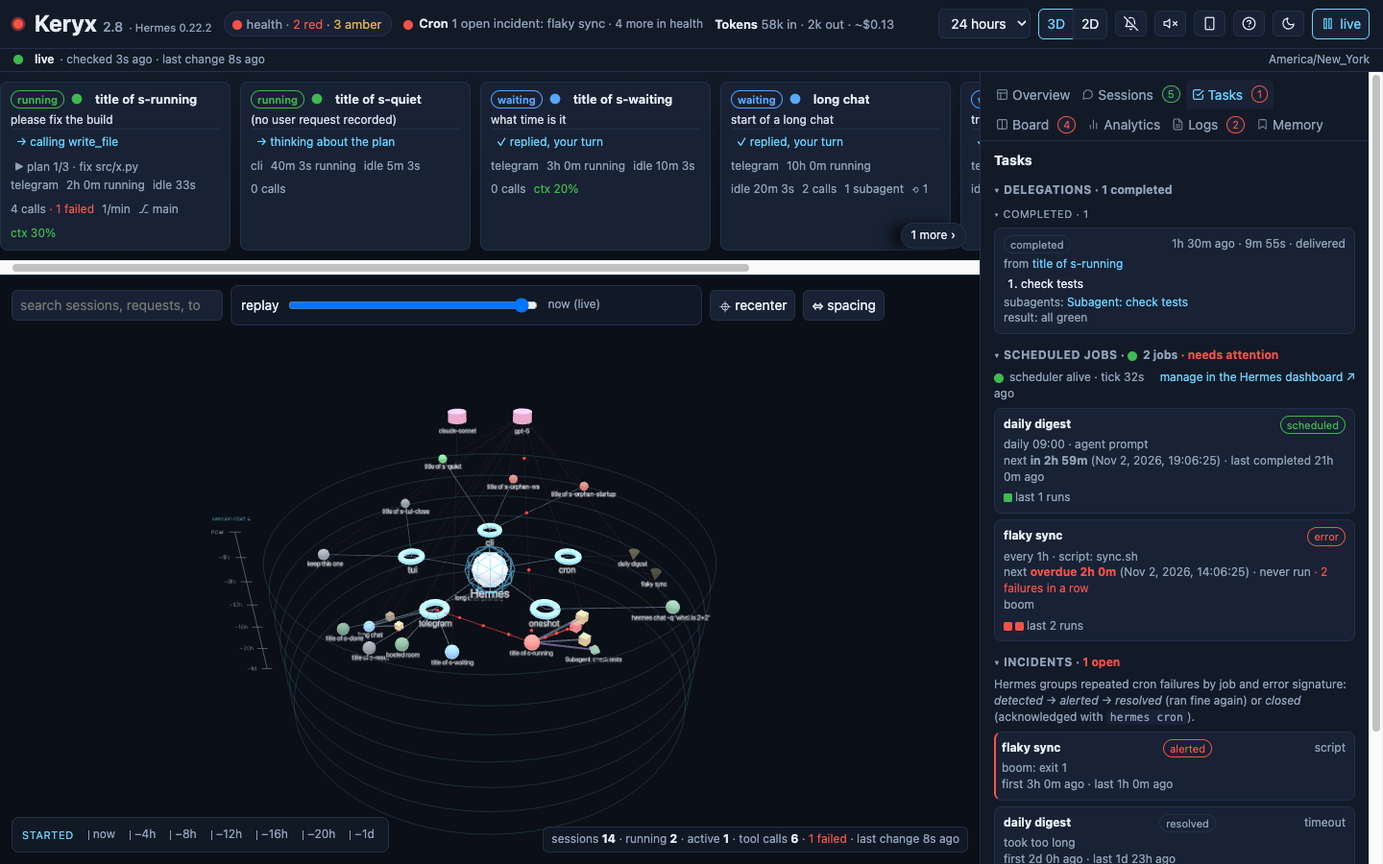
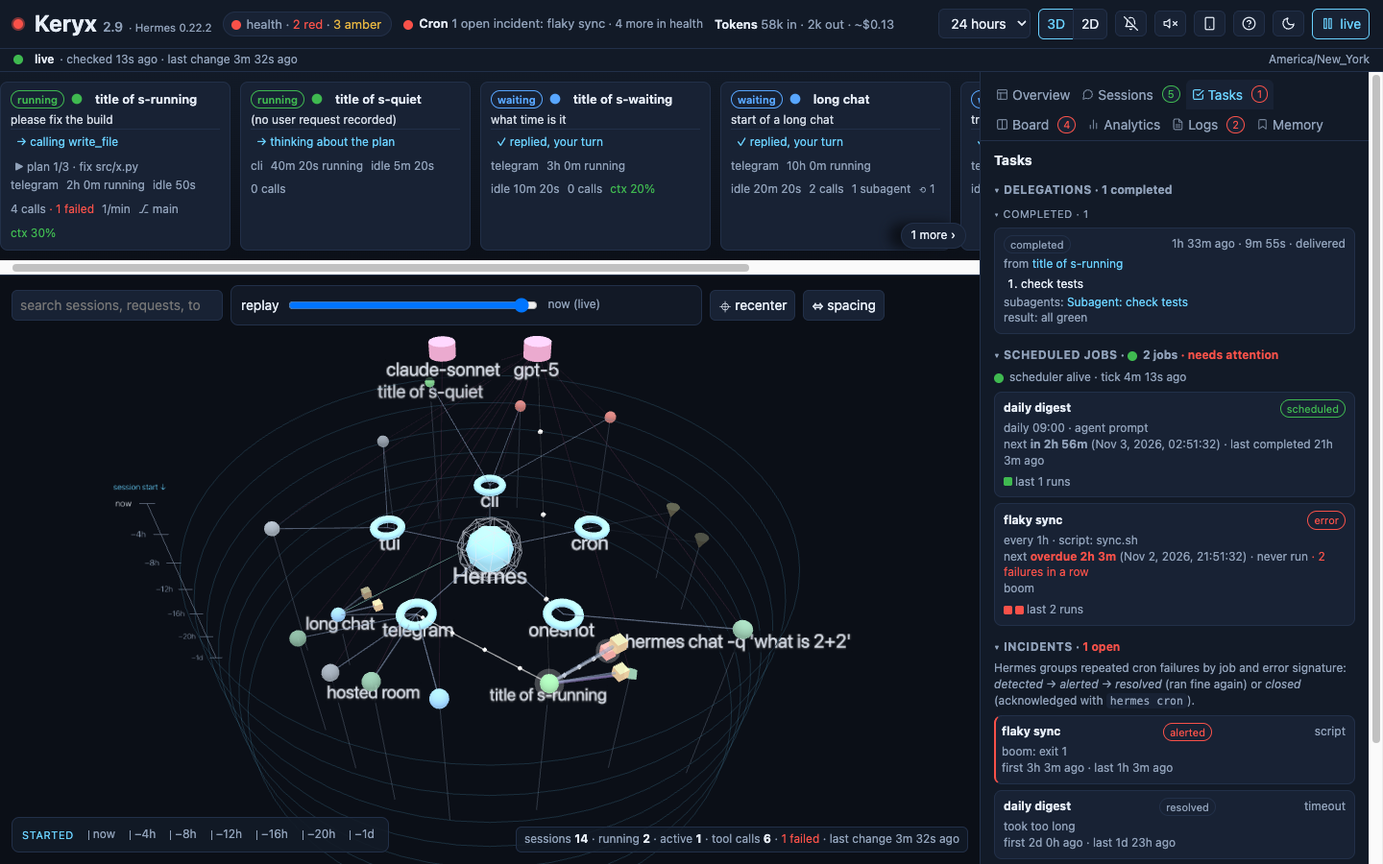
Phone map that fits, docs and screenshots for 2.9
On a phone the 2D map was a cluster of overlapping labels a few pixels wide: the fit ran once on
mount at desktop size and never again, every label drew at full size, and the history trail
overlapped the wrapped toolbar. The canvas now refits when its size changes (rotation, panel
resize) unless something is selected, the label pass applies the overview budget when zoomed out
(structure, running and waiting sessions, the newest four), the 2D fit pads more under the
toolbar on narrow screens, and the trail is hidden there (the browser's back button does the
same job).

Version 2.9. CHANGELOG, README and the website describe the five graph PRs; the nine
documentation screenshots are regenerated from the synthetic fixture at 2.9, with their WebP
copies.

diff --git a/docs/index.html b/docs/index.html
@@ -280,7 +280,7 @@ footer .wrap > div { display: flex; flex-wrap: wrap; gap: 16px; align-items: cen
       </div>
       <div class="card">
         <h3>Position is when it started</h3>
-        <p>Each platform (Telegram, TUI, CLI, cron…) owns a wedge around the hub and its sessions sit inside it, ordered by start time. In 3D the rings step downward from "now", in 2D they grow outward, and a clickable ruler along the bottom of the graph filters by when a session started. Opacity fades with age; labels scale with distance. Subagents orbit the session that spawned them; tools cluster around the session that called them; models sit on a shelf above; cron jobs fan out below.</p>
+        <p>Each platform (Telegram, TUI, CLI, cron…) owns a wedge around the hub and its sessions sit inside it, ordered by start time. In 3D the rings step downward from "now", in 2D they grow outward, and a clickable ruler along the bottom of the graph filters by when a session started. Opacity fades with age; labels keep a readable size at any zoom and give way to each other instead of overprinting; a stem drops from each session to the floor ring so its height reads at any angle. Subagents orbit the session that spawned them; tools cluster around the session that called them; models sit on a shelf above; cron jobs fan out below.</p>
       </div>
     </div>
   </div>
@@ -325,7 +325,7 @@ footer .wrap > div { display: flex; flex-wrap: wrap; gap: 16px; align-items: cen
         <h3>The graph</h3>
         <ul>
           <li>3D (default) or 2D, same layout and grammar.</li>
-          <li>Hover highlights a neighbourhood; click selects; sessions fan their tools out in a ring facing the camera.</li>
+          <li>Hover highlights a neighbourhood; click selects, an accent ring marks the selection, and sessions fan their tools out in a ring facing the camera. Anything touched in the last five minutes wears a halo and sends particles along its links.</li>
           <li>Click a platform to collapse everything under it. Search dims what does not match. The legend has checkboxes to hide any kind or status.</li>
           <li><strong>Spacing</strong> scales rings, link lengths and repulsion together; <strong>recenter</strong> frames the whole graph again. Both remembered per browser.</li>
         </ul>
@@ -424,7 +424,7 @@ footer .wrap > div { display: flex; flex-wrap: wrap; gap: 16px; align-items: cen
         <h3>Navigation</h3>
         <ul>
           <li>Every selection is a browser history entry that remembers the selection, the tab and the camera pose. <kbd>Backspace</kbd> goes back, <kbd>Shift</kbd>+<kbd>Backspace</kbd> forward; <kbd>Alt</kbd>+<kbd>←</kbd> and trackpad swipes work too. <kbd>[</kbd> and <kbd>]</kbd> change tab, <kbd>↑</kbd> <kbd>↓</kbd> walk the session list, <kbd>?</kbd> in the header reopens the first-run card.</li>
-          <li>On a phone the header is one row with a "…" sheet for the controls, the health counts sit in the map / panel bar, every control is at least 40 px tall, and the graph and the panel take turns at full width; light and dark themes are both designed, not inverted.</li>
+          <li>On a phone the header is one row with a "…" sheet for the controls, the health counts sit in the map / panel bar, every control is at least 40 px tall, and the graph and the panel take turns at full width; the map refits when the phone rotates. Light and dark themes are both designed, not inverted: every graph colour has a value per theme.</li>
           <li>The URL hash (<code>#session:…</code>, <code>#cron:…</code>) is a deep link you can share, or scan from the QR popover to open on your phone, where "add to home screen" keeps Keryx as an app.</li>
           <li>Every card, attention line, section header, trace step and kanban card is a real control reachable with <kbd>Tab</kbd> and activated with <kbd>Enter</kbd> or <kbd>Space</kbd>; section headers announce whether they are open; toasts are a live region; focus rings are visible. The graph canvas says it cannot be read by a screen reader and points to the list tabs.</li>
           <li>A first-run card explains the picture and the keyboard, holds the <strong>reduce motion</strong> switch (the system setting is honoured by default), and <kbd>?</kbd> brings it back. The side-panel tabs carry icons and wrap instead of hiding off the edge; drag the panel's left edge to widen it. The history trail under the toolbar is the path you took, labelled as such.</li>
@@ -463,7 +463,7 @@ footer .wrap > div { display: flex; flex-wrap: wrap; gap: 16px; align-items: cen
     <div class="two">
       <figure class="shot" style="margin:0">
         <picture><source srcset="img/light.webp" type="image/webp"><img src="img/light.png" width="1440" height="900" alt="The light theme: the same selected session with every graph, panel and overlay colour in the light palette" loading="lazy" decoding="async"></picture>
-        <figcaption>The light theme: every overlay and graph colour follows the theme, and every accent reads at 5:1 or better.</figcaption>
+        <figcaption>The light theme: every overlay and graph colour follows the theme; accents read at 5:1 or better and every graph colour at 3:1 or better.</figcaption>
       </figure>
       <figure class="shot phones" style="margin:0;background:transparent;border:0;box-shadow:none">
         <div class="phones-row">
@@ -480,38 +480,36 @@ footer .wrap > div { display: flex; flex-wrap: wrap; gap: 16px; align-items: cen
   <div class="wrap">
     <div class="head">
       <div class="eyebrow">Release notes</div>
-      <h2>What's new in 2.8</h2>
-      <p class="prose muted">A usability release from a full UX audit of 2.7: twenty-two findings, all addressed across <a href="https://github.com/rafreid/keryx/blob/main/CHANGELOG.md#28">pull requests 31 to 36</a>. Nothing changed in what Keryx reads or stores; everything changed in how it tells you. Earlier versions are in the <a href="https://github.com/rafreid/keryx/blob/main/CHANGELOG.md">changelog</a>.</p>
+      <h2>What's new in 2.9</h2>
+      <p class="prose muted">A graph release from a visual and interaction review of the 3D view: fourteen findings, all addressed across <a href="https://github.com/rafreid/keryx/blob/main/CHANGELOG.md#29">pull requests 45 to 49</a>. Nothing changed in what Keryx reads; the picture got honest colours, legible labels and depth. 2.8's usability work and earlier versions are in the <a href="https://github.com/rafreid/keryx/blob/main/CHANGELOG.md">changelog</a>.</p>
     </div>
     <div class="grid">
       <div class="card">
-        <h3><span class="dot" style="background:var(--green)"></span>Honest about liveness</h3>
+        <h3><span class="dot" style="background:var(--green)"></span>Colours that mean one thing</h3>
         <ul>
-          <li>A strip under the header reads <strong>live · checked 3s ago · last change 4m ago</strong>, <strong>reconnecting… showing data from 14:02</strong> or <strong>backend unreachable since 14:02 · showing the last snapshot</strong>.</li>
-          <li>The backend pings the stream every 15 s; 30 s of silence counts as stalled, so a stopped container, a hung host or a pulled cable all show within half a minute.</li>
-          <li>With no <code>state.db</code> behind the backend, a setup card names the directory and the fixes. A locked page shows only the token form.</li>
+          <li>A running session is green even while it is busy: <strong>active</strong> is a halo ring and link particles now, not a red fill that read as failure.</li>
+          <li>Every node and link colour is a token with a light-theme value that clears 3:1 on the page, where the old dark hexes fell to 1.3:1. Switching theme repaints the 3D background too.</li>
         </ul>
       </div>
       <div class="card">
-        <h3><span class="dot" style="background:var(--accent)"></span>A header on a diet</h3>
+        <h3><span class="dot" style="background:var(--accent)"></span>Labels you can read</h3>
         <ul>
-          <li>Desktop: brand, health pill, the single worst check, tokens, controls, on one row. Every check still lives in the pill's popover, which closes on <kbd>Esc</kbd> or a click outside.</li>
-          <li>Phone: one row with a "…" sheet for the controls; the red and amber counts sit in the map / panel bar; every control is at least 40 px tall.</li>
-          <li>Inline SVG icons instead of OS emoji, with a word beside each on wide screens. Tabs wrap instead of hiding; the panel's left edge drags.</li>
+          <li>Text stays about 11 px on screen at any zoom. The overview labels the hub, the platforms, running and waiting sessions and the newest four; zoom in and everything is labelled.</li>
+          <li>A label that would overprint another is hidden; nothing outside the hovered or selected neighbourhood keeps one. Tool labels say <code>write_file ×3 · 1 failed</code>.</li>
         </ul>
       </div>
       <div class="card">
-        <h3><span class="dot" style="background:var(--violet)"></span>Keyboard, screen reader, motion</h3>
+        <h3><span class="dot" style="background:var(--violet)"></span>Depth</h3>
         <ul>
-          <li>Cards, attention lines, section headers, trace steps, kanban cards, cron jobs and incidents are real controls that answer <kbd>Tab</kbd>, <kbd>Enter</kbd> and <kbd>Space</kbd>; section headers announce whether they are open; toasts are a live region.</li>
-          <li>Reduced motion from the system setting or a switch in the help card: no breathing nodes, particles, rotation or pulsing dots, and 2D by default.</li>
+          <li>A stem from every session to the floor ring, so height (start time) reads at any angle; the overview sits at 42°; a ring marks the selection; fog follows the camera distance.</li>
+          <li>The overview fits the sessions and platforms to 62 % of the canvas instead of 40 %, and the hub is accent-coloured in both themes.</li>
         </ul>
       </div>
       <div class="card">
-        <h3><span class="dot" style="background:var(--amber)"></span>Triage and type</h3>
+        <h3><span class="dot" style="background:var(--amber)"></span>Phone and performance</h3>
         <ul>
-          <li>The attention list is grouped into needs action, watch and info with counts, says since when, and a line can be muted on this device until it changes. The diagnostics link is marked "safe to share".</li>
-          <li>A 24-hour clock everywhere, a 12 px floor for body text, light-theme accents at 5:1 or better, and a "N more" pill when the strip of running sessions overflows.</li>
+          <li>The phone map refits on rotation, labels only the sessions that matter when zoomed out, and keeps the history trail out of the way.</li>
+          <li>Label textures are redrawn only when they change instead of twice per label per frame; the 2D canvas pauses its loop under reduced motion.</li>
         </ul>
       </div>
     </div>

diff --git a/frontend/src/GraphView.jsx b/frontend/src/GraphView.jsx
@@ -190,9 +190,15 @@ export default function GraphView({ graph, view, windowSec, selected, onSelect, 
       const p = overviewPose(dist)
       fg.cameraPosition({ x: p.x, y: p.y - 15, z: p.z }, { x: 0, y: -15, z: 0 }, ms)
     } else {
-      fg.zoomToFit(ms, 40, n => n.type !== 'model')
+      fg.zoomToFit(ms, size.w < 800 ? 90 : 40, n => n.type !== 'model')   // phones: the toolbar and stats bar overlay more of the canvas
     }
   }, [view, data, size])
+  // the canvas changed size (phone rotation, panel resize): refit, unless the user is looking at something
+  useEffect(() => {
+    if (!fitted.current || selectedRef.current) return
+    const t = setTimeout(() => frameAll(400), 350)
+    return () => clearTimeout(t)
+  }, [size.w, size.h])  // eslint-disable-line react-hooks/exhaustive-deps
   const selectedRef = useRef(selected); selectedRef.current = selected
   const onEngineStop = useCallback(() => {
     if (fitted.current) return
@@ -491,7 +497,7 @@ export default function GraphView({ graph, view, windowSec, selected, onSelect, 
     paintRings(ctx, scale)
     const fontSize = Math.max(3, 11 / scale)
     ctx.font = `${fontSize}px sans-serif`
-    cullLabels2d(data.nodes, { selected, hover, fontSize, radiusOf, emphasised, measure: t => ctx.measureText(t).width })
+    cullLabels2d(data.nodes, { selected, hover, fontSize, radiusOf, emphasised, measure: t => ctx.measureText(t).width, budget: scale < 0.9 })
   }, [paintRings, data, selected, hover, emphasised])
 
   const common = {

diff --git a/frontend/src/labels.js b/frontend/src/labels.js
@@ -79,12 +79,15 @@ const LABELLED = new Set(['hub', 'source', 'session', 'subagent', 'cron', 'model
 export const wantsLabel = (n, hover) => (n.type === 'tool' ? !!n.fanned || n.id === hover : LABELLED.has(n.type))
 
 /** 2D: boxes in world units under the node (the painter divides by zoom, so `fontSize` already is). */
-export function cullLabels2d(nodes, { selected, hover, fontSize, radiusOf, emphasised = () => true, measure }) {
+export function cullLabels2d(nodes, { selected, hover, fontSize, radiusOf, emphasised = () => true, measure, budget = false }) {
   for (const n of nodes) n.labelOn = false
   const items = []
   for (const n of nodes) {
     if (n.x == null || !wantsLabel(n, hover)) continue
-    if (!emphasised(n) && n.type !== 'hub' && n.type !== 'source' && n.id !== selected && n.id !== hover) continue
+    const keep = n.type === 'hub' || n.type === 'source' || n.id === selected || n.id === hover
+    if (!emphasised(n) && !keep) continue
+    // zoomed out (a phone, or a wide window): only the structure, the sessions that need a look and the newest
+    if (budget && !keep && !(n.status === 'running' || n.status === 'waiting' || (n.labelRank ?? 99) < LABEL_OVERVIEW_N)) continue
     const text = labelText(n)
     const w = (measure ? measure(text) : text.length * fontSize * 0.56) * PAD, h = fontSize * 1.25 * PAD
     const x0 = n.x - w / 2, y0 = n.y + radiusOf(n) + 1.5

diff --git a/frontend/src/labels.test.js b/frontend/src/labels.test.js
@@ -78,6 +78,12 @@ describe('2D occlusion', () => {
     expect(cullLabels2d(nodes, { fontSize: 11, radiusOf: r, measure: () => 200 })).toEqual(['a'])
     expect(cullLabels2d(nodes, { fontSize: 11, radiusOf: r, measure: () => 20 }).sort()).toEqual(['a', 'b'])
   })
+  it('applies the overview budget when asked', () => {
+    const nodes = rankByStart([s('a', { x: 0, y: 0, started: 100 }), s('b', { x: 400, y: 0, started: 90 }), s('c', { x: 800, y: 0, started: 80 }), s('d', { x: 1200, y: 0, started: 70 }),
+      s('e', { x: 1600, y: 0, started: 60 }), s('r', { x: 2000, y: 0, started: 1, status: 'running' }), { id: 'h', type: 'hub', label: 'Hermes', x: 2400, y: 0 }])
+    expect(cullLabels2d(nodes, { fontSize: 11, radiusOf: r, budget: true }).sort()).toEqual(['a', 'b', 'c', 'd', 'h', 'r'])
+    expect(cullLabels2d(nodes, { fontSize: 11, radiusOf: r }).length).toBe(7)
+  })
   it('keeps labels that do not collide, and the selection always', () => {
     const nodes = rankByStart([s('a', { x: 0, y: 0, started: 100 }), s('b', { x: 400, y: 0, started: 10 }), s('c', { x: 2, y: 1, started: 1 })])
     expect(cullLabels2d(nodes, { fontSize: 11, radiusOf: r }).sort()).toEqual(['a', 'b'])

diff --git a/frontend/src/styles.css b/frontend/src/styles.css
@@ -155,7 +155,7 @@ button:hover { border-color: var(--muted); }
   .toolbar input[type=search] { width: 100%; }
   .replay { flex: 1; min-width: 0; } .replay input[type=range] { flex: 1; width: auto; min-width: 60px; } .replay .t { min-width: 0; }
   .app.narrow .timeaxis { display: none; }          /* the ruler covers too much of a small graph */
-  .trail { top: 86px; }
+  .app.narrow .trail { display: none; }           /* the toolbar wraps to two rows here; the browser's back button does the same job */
   .stats { left: 8px; right: 8px; bottom: 8px; text-align: center; font-size: 11px; }
   .app.narrow .overlay { display: none; }
   .toasts { right: 8px; left: 8px; bottom: 8px; max-width: none; }

diff --git a/backend/app.py b/backend/app.py
@@ -73,7 +73,7 @@ USER_CLOSE_REASONS = {"cli_close", "tui_shutdown", "tui_close", "user_exit", "se
 # The session was compacted: Hermes ends it and continues the same conversation in a child session.
 COMPRESSION_REASON = "compression"
 
-app = FastAPI(title="Keryx", version="2.8")
+app = FastAPI(title="Keryx", version="2.9")
 
 
 def authorised(request: Request) -> bool:

diff --git a/README.md b/README.md
@@ -33,19 +33,16 @@ All screenshots are taken from the synthetic fixture the tests use, never from a
 
 <p align="center"><img src="docs/img/phone-panel.png" width="280" alt="Keryx on a phone: a one-row header, the health counts in the map / panel bar, and the overview panel with its grouped attention list"> <img src="docs/img/phone-map.png" width="280" alt="Keryx on a phone: the map view, with the session cards above the 2D graph"></p>
 
-## What's new in 2.8
+## What's new in 2.9
 
-2.8 is a usability release that came out of a full UX audit of 2.7 (22 findings, all addressed). Nothing changed in what Keryx reads or stores; everything changed in how it tells you.
+2.9 is a graph release that came out of a visual and interaction review of the 3D view (14 findings, all addressed). Nothing changed in what Keryx reads; the picture got honest colours, legible labels and depth. 2.8's usability changes are in the [changelog](CHANGELOG.md#28).
 
-- **The page tells the truth about the connection.** A strip under the header reads *live · checked 3s ago · last change 4m ago*, *reconnecting… showing data from 14:02* or *backend unreachable since 14:02 · showing the last snapshot*. The backend pings the stream every 15 s and the page calls it stalled after 30 s of silence, so a stopped container, a hung host or a pulled cable all show within half a minute. The stats bar says "last change" instead of "updated", which used to read as a stale connection when the data simply had not moved.
-- **A missing data directory explains itself.** With no `state.db` behind the backend the graph gives way to a setup card that names the directory Keryx looked in and the two fixes, instead of a column of red checks and a stats bar stuck on "loading". The locked page shows only the token form.
-- **A header that fits on one row.** Brand, health pill, the single worst check, tokens, controls. Every check still lives in the pill's popover, which now closes on Esc or a click outside. Icon buttons are inline SVG instead of OS emoji, with a word beside each on wide screens.
-- **A phone header that leaves room for the page.** One row (title, live toggle, a "…" sheet for the rest); the red and amber counts sit in the map / panel bar; every control is at least 40 px tall.
-- **Everything works from the keyboard.** Cards, attention lines, section headers, trace steps, kanban cards, cron jobs and incidents are real controls that answer `Tab`, `Enter` and `Space`; section headers announce whether they are open; toasts are a live region; the graph canvas says it cannot be read and points to the list tabs.
-- **Reduced motion.** The OS setting, or a switch in the help card, stops the breathing nodes, link particles, mesh rotation and pulsing dots, and starts the page in 2D.
-- **A triaged attention list.** Needs action / watch / info with counts, "since 9d" on each line, and a per-device mute that holds until the line changes. The diagnostics link is marked "safe to share".
-- **Tabs that wrap, a panel that resizes.** No tab is ever hidden off the edge; drag the panel's left edge to widen it.
-- **Typography.** A 24-hour clock everywhere (log times no longer wrap), a 12 px floor for body text, light-theme accents darkened so each reads at 5:1 or better, and a "N more" pill when the strip of running sessions overflows.
+- **Colours that mean one thing.** A running session is green even while it is busy: "active" (touched in the last 5 min) is now a halo ring and link particles, not a red fill that read as failure. Every node and link colour is a CSS token with a light-theme value that clears 3:1 on the page, where the old dark-theme hexes fell to 1.3:1. Switching theme repaints the 3D background too.
+- **Labels you can read.** Text stays about 11 px on screen at any zoom. The overview labels the hub, the platforms, running and waiting sessions and the newest four; everything is labelled when you zoom in; a label that would overprint another is hidden; nothing outside the hovered or selected neighbourhood keeps one. Tool labels say `write_file ×3 · 1 failed`.
+- **Depth in the 3D view.** A thin stem drops from every session to the floor ring, so height (start time) reads at any angle; the overview sits at 42° instead of 31°; a ring marks the selected node; fog follows the camera distance so what is behind the structure fades a little at every zoom.
+- **A tighter frame and a lit hub.** The overview fits the sessions and platforms to 62 % of the canvas instead of 40 %. The hub is accent-coloured in both themes, where it used to be a black sphere on the light page.
+- **Phone map.** The map refits when the phone rotates or the panel is resized, labels only the sessions that matter when zoomed out, and the history trail stays out of the way (the browser's back button does the same job).
+- **Less work per frame.** Label textures are redrawn only when their size or colour changes, instead of twice per label per frame; the 2D canvas pauses its loop under reduced motion.
 
 ## Quick start
 
@@ -123,7 +120,7 @@ docker compose pull keryx && docker compose up -d keryx      # Docker
 | Connection strip | under the header, the one place that says whether the picture is current: **live · checked 3s ago · last change 4m ago**, **reconnecting… showing data from 14:02** (amber, the stream went quiet or failed and Keryx is polling), **backend unreachable since 14:02 · showing the last snapshot** (red), or **live updates paused**. The backend pings the stream every 15 s; 30 s of silence counts as stalled. The browser's timezone sits at its right end. On a phone only the non-green states take the room. |
 | Right now | one card per open session: the request, the latest step, plan progress, elapsed and idle time, calls per minute, context usage, git branch, subagents. |
 | Attention | everything red or amber (failing cron jobs, platforms that are not connected, silent kanban workers, undelivered results, log errors, a pending gateway restart, orphaned sessions) in three groups, **needs action**, **watch** and **info** (the sessions waiting for you), each with a count and "since 9d" where the data knows when it began. Each line selects the node or opens the tab. The bell on a line mutes it on this device until its text changes; muted lines sit behind "N muted · show". Keryx never writes any of this to Hermes. |
-| Graph | Hermes at the centre, the platforms it talks on around it, each session in its platform's wedge with its tools clustered around it, subagents in orbit, models on a shelf, cron jobs below. 3D or 2D; labels scale with distance. A clickable ruler along the bottom filters by when a session started. |
+| Graph | Hermes at the centre, the platforms it talks on around it, each session in its platform's wedge with its tools clustered around it, subagents in orbit, models on a shelf, cron jobs below. 3D or 2D; labels keep a readable size at any zoom and give way to each other instead of overprinting; in 3D a stem drops from each session to the floor ring, and the selected node wears a ring. A clickable ruler along the bottom filters by when a session started. |
 | Selected node | a session opens with four lines (status, request, latest step, context gauge) and the command to resume it in a terminal, then the **trace** as a reading view, the agent's **plan** (its `todo_list`), **what fills the context** (your messages, replies, tool-call arguments and tool output by tool, in characters), **files touched**, and two collapsed sections: cost and usage, lineage and environment. |
 | Sessions tab | grouped by platform, time or project; `#tags` from titles as filter chips; ☆ pins, ★ for sessions pinned in Hermes itself; Hermes' internal sessions (one-shot calls, tool helpers, kanban workers) in a collapsed group; sessions Hermes hides stay out unless you tick "show hidden". The search box also looks inside conversations through Hermes' full-text index. |
 | Tasks tab | delegations board, scheduled jobs with run history and missed slots, Hermes' cron incidents and delivery queue. |
@@ -131,7 +128,7 @@ docker compose pull keryx && docker compose up -d keryx      # Docker
 | Analytics tab | insight sentences, sessions-per-day momentum, cache-hit trend, provider mix, when Hermes works by hour of day and weekday, daily trend, a year heatmap, per-day cost, model share, Hermes' skill ledger, achievement unlocks. |
 | Logs tab | filterable tails of every log file Hermes writes; lines logged inside a session link to it. |
 | Memory tab | Hermes' `MEMORY.md` and `USER.md`, read-only, opt-in (`KERYX_SHOW_MEMORY=1`). |
-| Phone | under 800px the header is one row (title, live toggle, a "…" sheet with the window, view, alerts, sound, QR, help and theme), the red and amber counts sit in the map / panel bar and open the Overview, and the graph and the panel take turns at full width. Screens under 1200px start in 2D; every control is at least 40 px tall. |
+| Phone | under 800px the header is one row (title, live toggle, a "…" sheet with the window, view, alerts, sound, QR, help and theme), the red and amber counts sit in the map / panel bar and open the Overview, and the graph and the panel take turns at full width. Screens under 1200px start in 2D; every control is at least 40 px tall. The map refits when the phone rotates, labels only the sessions that matter when zoomed out, and hides the history trail (the browser's back button does the same). |
 | No data yet | when there is no `state.db` behind the backend the graph gives way to a setup card naming the directory Keryx looked in and the two fixes (`HERMES_HOME` under docker compose, `HERMES_DATA` from source, `HERMES_UID`/`HERMES_GID` for permissions). The card goes away on its own when the file appears. |
 | First run | a card explains shape, colour and position, the glyphs, where the data comes from and the keyboard; the `?` in the header brings it back. It also holds the **reduce motion** switch: Keryx follows the system's reduced-motion setting (no breathing nodes, link particles or pulsing dots, 2D by default) and the switch overrides it for this browser. |
 | Notifications | in-app toasts, desktop notifications if you allow them, and optional short synthesised sounds (no audio files), when Hermes replies and waits for you, a session fails or is orphaned, a delegation finishes, a cron job fails or misses its trigger. |
@@ -144,7 +141,7 @@ docker compose pull keryx && docker compose up -d keryx      # Docker
 
 ## Using it
 
-**Reading the graph.** Hover highlights a neighbourhood. Click a node to select it; sessions fan their tools out in a ring facing you. Click a platform to collapse it. Search dims everything that does not match. The legend in the overview tab has checkboxes to hide any kind or status.
+**Reading the graph.** Hover highlights a neighbourhood. Click a node to select it; an accent ring marks it, and sessions fan their tools out in a ring facing you. Click a platform to collapse it. Search dims everything that does not match, and only the matches keep their labels. Anything touched in the last five minutes wears a halo and sends particles along its links; its fill keeps the status colour. The legend in the overview tab has checkboxes to hide any kind or status.
 
 **Time.** The window selector (last hour to all time) sets what is loaded. The replay bar re-queries the graph as of any moment in the window. The ruler along the bottom of the graph is clickable: each label keeps only the sessions that started in that span, and the stats bar reads "showing N of M". Times are shown in your browser's zone on a 24-hour clock (the zone is named at the right end of the connection strip); analytics days are counted in UTC.
 
@@ -188,7 +185,7 @@ All settings are environment variables.
 | `STALE_AFTER` | `1800` | seconds; a session that is mid-turn but idle for this long is shown as stale |
 | `CONTEXT_LENGTH` | `400000` | last-resort context window for the gauge. Keryx first uses `model.context_length` from Hermes' config.yaml, then the window Hermes probed and cached in `context_length_cache.yaml`, then a small built-in table; only a model none of those know falls back to this value, and the gauge says so |
 
-Colours and labels live in `frontend/src/util.js`; rebuild after changing them. Light-theme accents are set so every one of them reads at 5:1 or better on the page background at 12 px.
+Graph colours are the `--n-*`, `--s-*`, `--l-*` and `--active` tokens in `frontend/src/styles.css` (one block per theme; the legend, the canvas and the WebGL view all read them) and the labels are in `frontend/src/util.js`; rebuild after changing either. Light-theme accents read at 5:1 or better at 12 px, and every graph colour at 3:1 or better; `tokens.test.js` checks both.
 
 ## What Keryx reads
 

diff --git a/CHANGELOG.md b/CHANGELOG.md
@@ -4,6 +4,29 @@ Keryx versions are the `version` string in `backend/app.py`, shown in the page h
 Each entry links the pull requests that made it. The published image `ghcr.io/rafreid/keryx` carries
 `latest` for the head of `main` and a version tag for each release.
 
+## 2.9
+
+A graph release from a visual and interaction review of the 3D view: fourteen findings, all addressed.
+Nothing changed in what Keryx reads; the picture got honest colours, legible labels and depth.
+
+- Graph colours are CSS tokens with a light block that clears 3:1 for every node and link (the old
+  dark hexes fell to 1.3:1 on the light background); "active" is a halo ring and particles, never a
+  red fill, so a running session stays green; switching theme repaints the WebGL background.
+  ([#45](https://github.com/rafreid/keryx/pull/45))
+- Labels keep ~11 px on screen at any zoom, a priority budget decides which the overview shows, a
+  screen-space occlusion pass hides any that would overprint, and nothing outside the focused
+  neighbourhood is labelled; the sprite textures are no longer re-rasterised every frame. Tool
+  labels read "write_file ×3 · 1 failed". ([#46](https://github.com/rafreid/keryx/pull/46))
+- Depth: a stem from every session to the floor ring, a 42° overview, an accent ring on the
+  selection, fog tied to the camera distance, a key light that gives spheres a terminator.
+  ([#47](https://github.com/rafreid/keryx/pull/47))
+- The overview frames the sessions and platforms at 62 % of the canvas instead of 40 %; the hub is
+  accent-coloured in both themes; the 2D canvas pauses its redraw loop under reduced motion.
+  ([#48](https://github.com/rafreid/keryx/pull/48))
+- Phone map: refits on rotation and panel resize, a label budget when zoomed out, more padding
+  under the toolbar, the history trail hidden (the browser's back button does the same).
+  ([#49](https://github.com/rafreid/keryx/pull/49))
+
 ## 2.8
 
 A usability release from a full UX audit of 2.7: twenty-two findings, all addressed. Nothing changed
